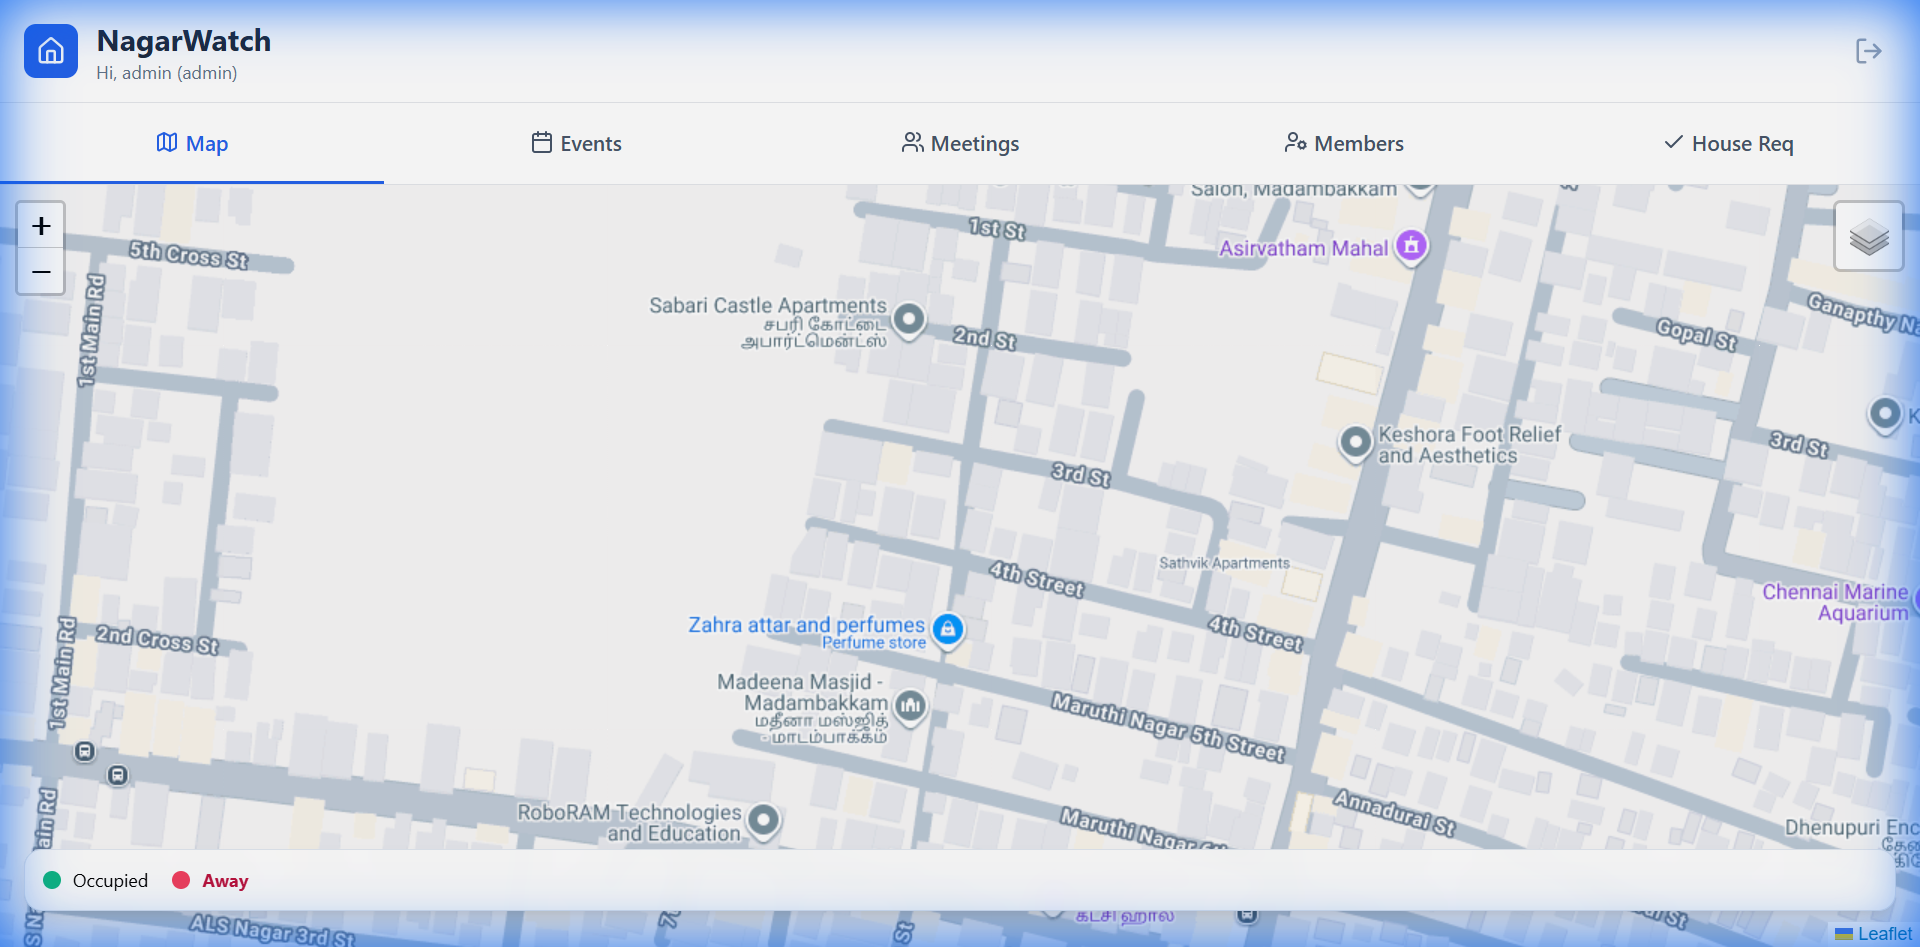
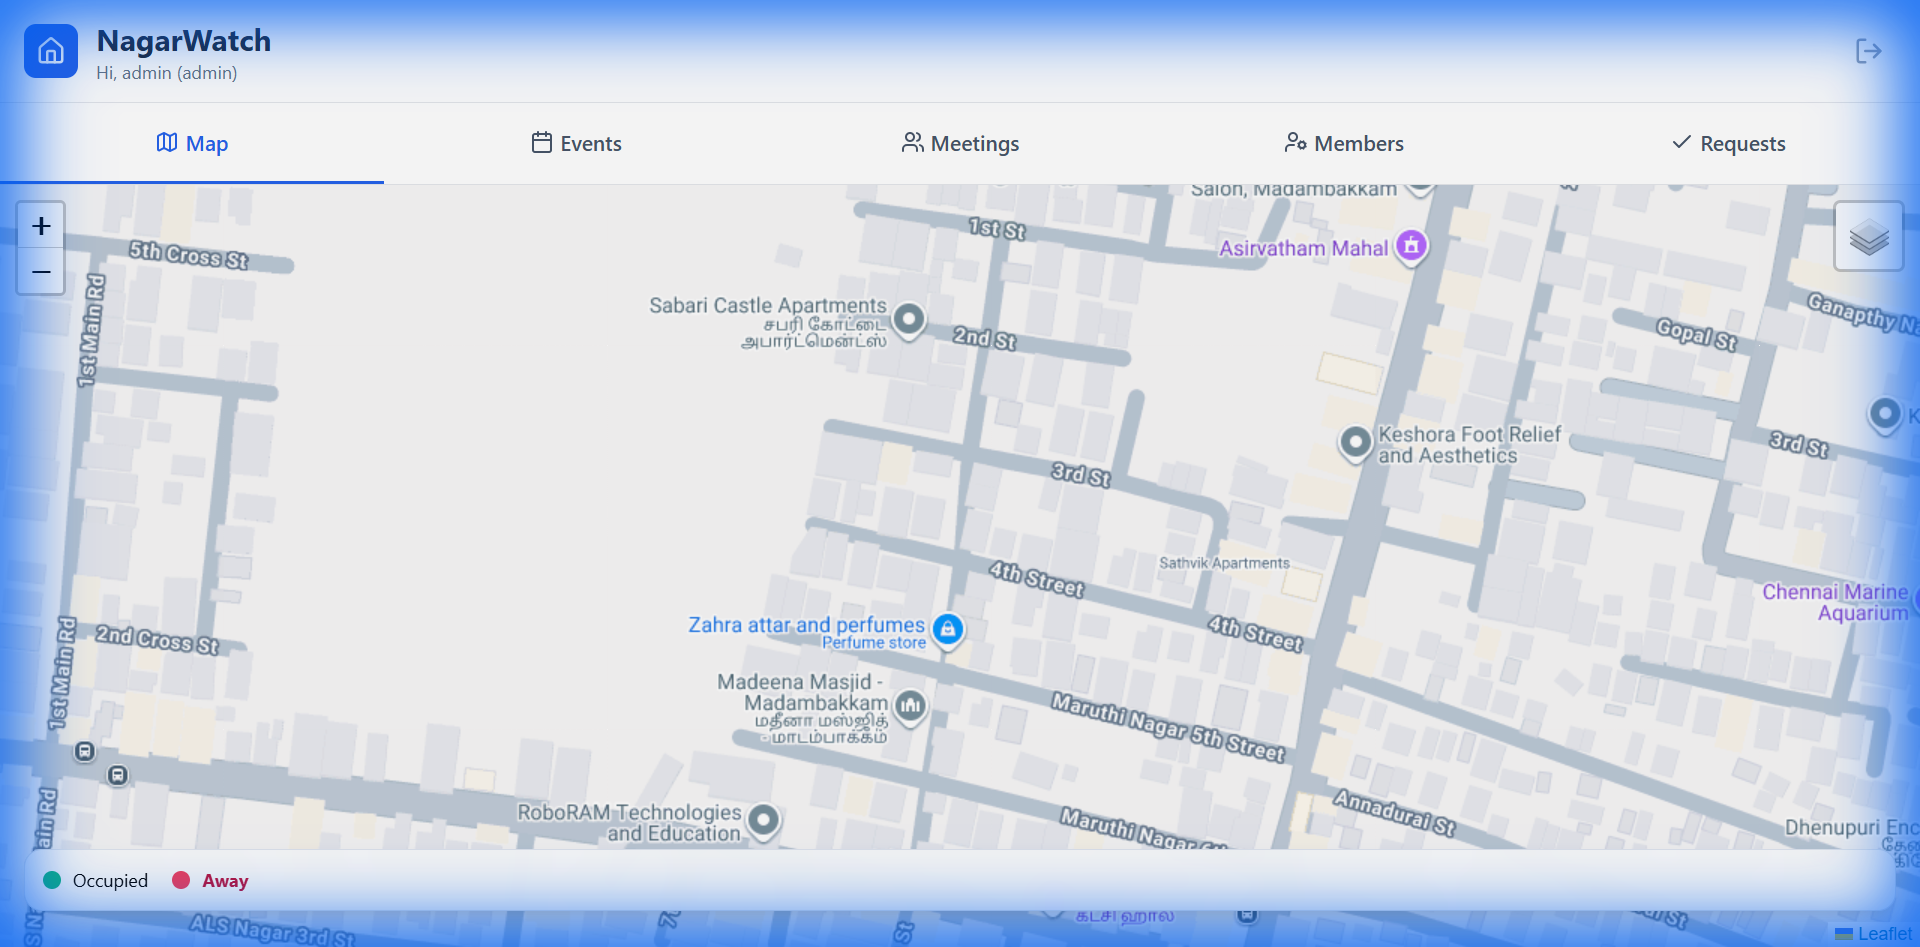
ui: rename 'House Req' to 'Requests' and update dashboard screenshot

Changed region(s): [[0.0, 0.0, 1.0, 1.0], [0.875, 0.1225, 0.9375, 0.1837]]

diff --git a/src/pages/Dashboard.jsx b/src/pages/Dashboard.jsx
@@ -256,7 +256,7 @@ const Dashboard = () => {
                             {pendingUsers.length > 0 && <span className="ml-1 w-2 h-2 bg-red-500 rounded-full inline-block"></span>}
                         </button>
                         <button onClick={() => setActiveTab('approvals')} className={`flex-1 min-w-[80px] py-4 flex flex-col md:flex-row justify-center items-center gap-1 border-b-2 ${activeTab === 'approvals' ? 'border-blue-600 text-blue-600' : 'border-transparent'}`}>
-                            <Check className="w-4 h-4" /> House Req
+                            <Check className="w-4 h-4" /> Requests
                             {pendingHouses.length > 0 && <span className="ml-1 w-2 h-2 bg-red-500 rounded-full inline-block"></span>}
                         </button>
                     </>
